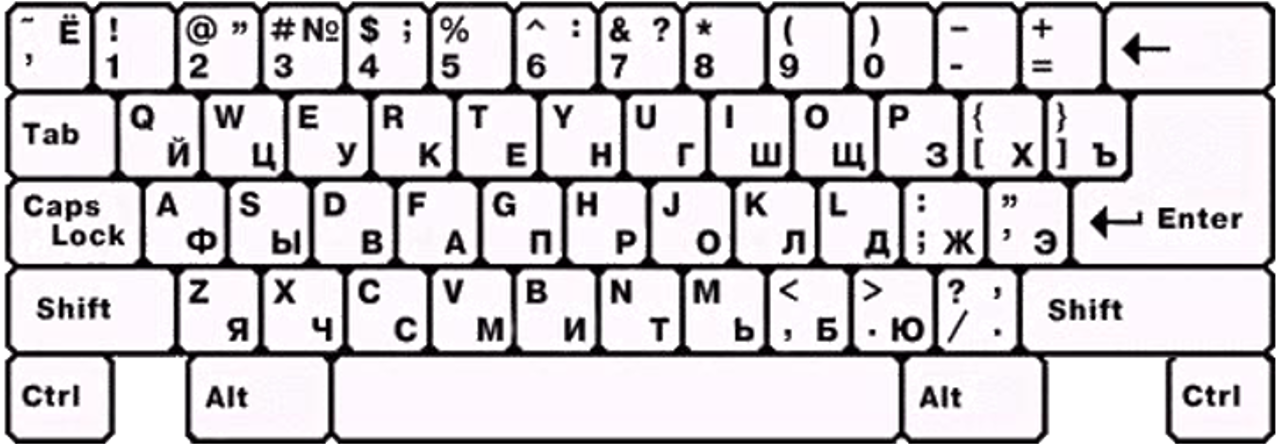
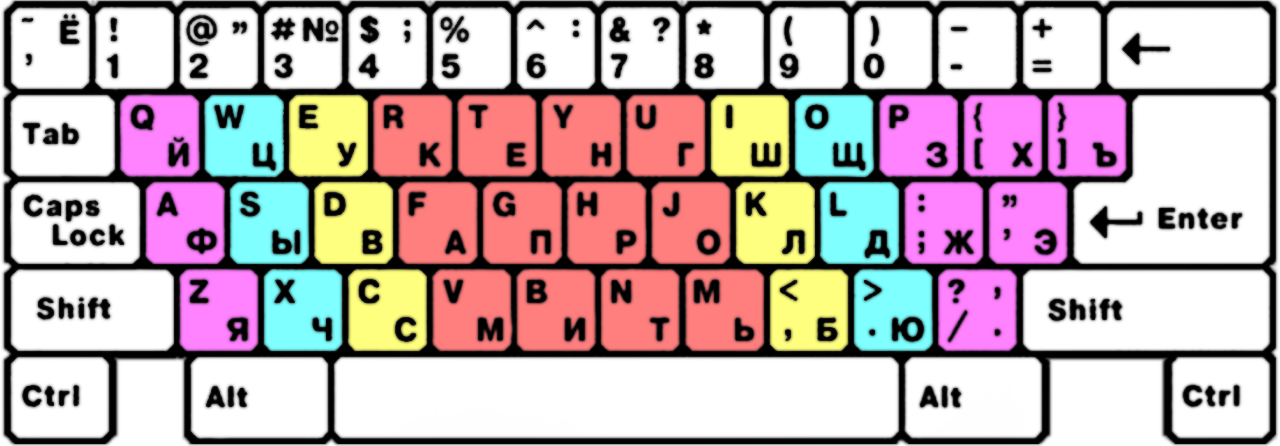
Покрашена клавиатура, подписи уровней В комбобоксе уровня сложности подписаны добавляемые клавиши

diff --git a/src/typingtrainer/ModScene/ModSceneController.java b/src/typingtrainer/ModScene/ModSceneController.java
@@ -1,6 +1,7 @@
 package typingtrainer.ModScene;
 
 import javafx.collections.FXCollections;
+import javafx.collections.ObservableList;
 import javafx.fxml.FXMLLoader;
 import javafx.scene.Parent;
 import javafx.scene.control.Alert;
@@ -15,6 +16,7 @@ import typingtrainer.Word;
 
 import java.io.IOException;
 import java.lang.reflect.InvocationTargetException;
+import java.util.Collection;
 
 /**
  * Created by Никитка on 28.02.2017.
@@ -27,10 +29,20 @@ public class ModSceneController {
 
     public void initialize()
     {
-        System.out.println("Опционная сцена готова!");
+		System.out.println("Опционная сцена готова!");
+		ObservableList<String> levels = FXCollections.observableArrayList();
+		for (int i = 0; i < 30; i += 2)
+			levels.add(new String() + (i + 2) + " (" + Word.ALPH_RU[0].charAt(i) + Word.ALPH_RU[0].charAt(i + 1) +
+				" / " + Word.ALPH_EN[0].charAt(i) + Word.ALPH_EN[0].charAt(i + 1) + ")");
+		levels.add("33" + " (" + Word.ALPH_RU[0].charAt(30) + Word.ALPH_RU[0].charAt(31) + Word.ALPH_RU[0].charAt(32) +
+			" / " + Word.ALPH_EN[0].charAt(30) + Word.ALPH_EN[0].charAt(31) + Word.ALPH_EN[0].charAt(32) + ")");
         langCB.setItems(FXCollections.observableArrayList("Русский", "English"));
-        difficultyCB.setItems(FXCollections.observableArrayList("2", "4", "6", "8", "10", "12", "14", "16", "18", "20", "22", "24", "26", "28", "30", "33"));
+        difficultyCB.setItems(levels);
         registerCB.setItems(FXCollections.observableArrayList("Выкл.", "Вкл."));
+
+        langCB.getSelectionModel().select(0);
+        difficultyCB.getSelectionModel().select(0);
+        registerCB.getSelectionModel().select(0);
     }
 
     public void onGoClicked(MouseEvent mouseEvent) throws IOException
@@ -58,7 +70,8 @@ public class ModSceneController {
 					lang = Word.Languages.EN;
 					break;
 			}
-			difficulty = Integer.parseInt(difficultyCB.getSelectionModel().getSelectedItem().toString());
+			String diffStr = difficultyCB.getSelectionModel().getSelectedItem().toString();
+			difficulty = Integer.parseInt(diffStr.substring(0, diffStr.indexOf(' ')));
 			register = registerCB.getSelectionModel().getSelectedIndex() == 1;
             PracticeSceneController.setOptions(lang, difficulty, register);
 

diff --git a/src/typingtrainer/StatisticScene/StatisticSceneController.java b/src/typingtrainer/StatisticScene/StatisticSceneController.java
@@ -24,9 +24,9 @@ public class StatisticSceneController {
     public Label labelSpeedAll;
     public Label labelSpeedLast;
 
-
     public void initialize() throws IOException
     {
+        System.out.println("Сцена статистики готова!");
         FileReader all_stat = new FileReader("src/typingtrainer/StatisticScene/Statistics/all_stat.txt");
         BufferedReader reader = new BufferedReader(all_stat);
         String line;
@@ -34,9 +34,8 @@ public class StatisticSceneController {
         while ((line = reader.readLine())!=null){
             lines.add(line);
         }
-
-        for (int i = 0; i < lines.size(); i++)
-            System.out.println(lines.get(i));
+        /*for (int i = 0; i < lines.size(); i++)
+            System.out.println(lines.get(i));*/
         reader.close();
 
         all_stat.close();
@@ -45,7 +44,6 @@ public class StatisticSceneController {
         labelTimeAll.setText(String.format("%.2f",Double.valueOf(lines.get(1))) + " сек");
         labelSpeedAll.setText(String.format("%.2f",Double.valueOf(lines.get(2))) + " зн/мин");
 
-
         FileReader last_stat = new FileReader("src/typingtrainer/StatisticScene/Statistics/last_stat.txt");
         BufferedReader reader_last = new BufferedReader(last_stat);
         String line_last;
@@ -53,9 +51,8 @@ public class StatisticSceneController {
         while ((line_last = reader_last.readLine())!=null){
             lines_last.add(line_last);
         }
-
-        for (int i = 0; i < lines_last.size(); i++)
-            System.out.println(lines_last.get(i));
+        /*for (int i = 0; i < lines_last.size(); i++)
+            System.out.println(lines_last.get(i));*/
         reader.close();
 
         last_stat.close();
@@ -63,7 +60,6 @@ public class StatisticSceneController {
         labelMisLast.setText(lines_last.get(0));
         labelTimeLast.setText(lines_last.get(1) + " сек");
         labelSpeedLast.setText(lines_last.get(2) + " зн/мин");
-
     }
 
     public void onBackClicked(MouseEvent mouseEvent)

diff --git a/src/typingtrainer/PracticeScene/PracticeSceneController.java b/src/typingtrainer/PracticeScene/PracticeSceneController.java
@@ -49,6 +49,7 @@ public class PracticeSceneController
 	private static final double SECONDS_NANOSECOND_CONTAIN = 1e-9;
 
 	private PracticeWatcher watcher;
+	private Object[] sceneParams;
 	private volatile MediaPlayer music;
 	private volatile MediaPlayer falseNote;
 	private volatile int msToReducing;
@@ -95,11 +96,9 @@ public class PracticeSceneController
 	public void initialize()
 	{
 		System.out.println("Сцена практики готова!");
-		//displayableStringLabel.setFocusTraversable(true);
 		restart();
 		InputContext InCon = java.awt.im.InputContext.getInstance();
 		InCon.selectInputMethod(new Locale("en", "US"));
-		System.out.println(InCon.getLocale().toString());
 	}
 
 	private void restart()

diff --git a/src/typingtrainer/ManagedScene.java b/src/typingtrainer/ManagedScene.java
@@ -6,18 +6,12 @@ import typingtrainer.SceneManager;
 
 /**
  * Created by Meow on 25.02.2017.
- * Расширяет класс Scene из JavaFX. Отличается только тем, что имеет ссылку на свой менеджер.
+ * Расширяет класс Scene из JavaFX. Имеет ссылку на свой менеджер и массив параметров.
  * @see SceneManager
  */
 public class ManagedScene extends Scene
 {
 	private SceneManager manager;
-
-	public ManagedScene(Parent root, SceneManager manager)
-	{
-		super(root);
-		this.manager = manager;
-	}
 
 	public ManagedScene(Parent root, double width, double height, SceneManager manager)
 	{
